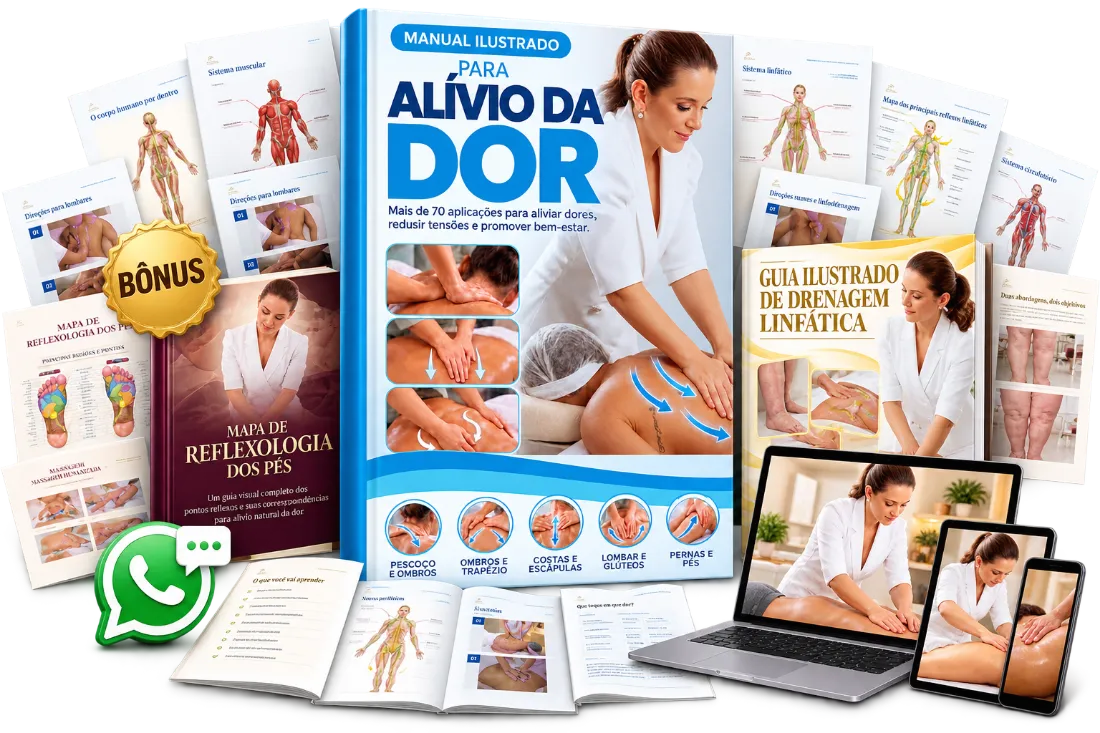
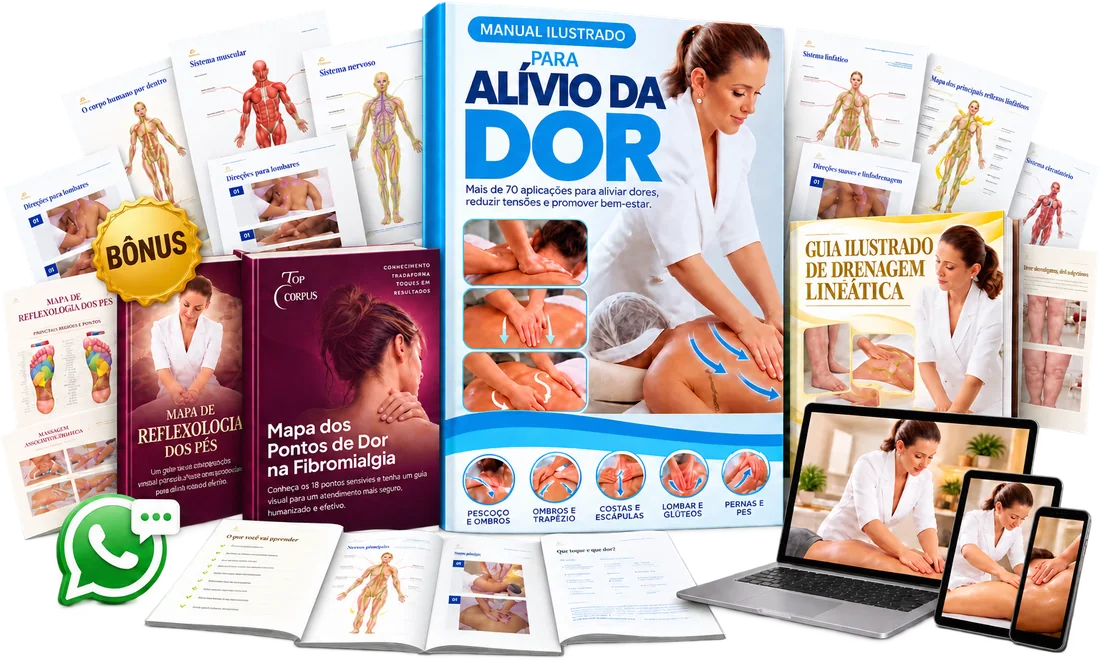
Troca o mockup da oferta pela colagem com os cinco bônus
A arte nova fecha o par com o hero: traz o Mapa dos Pontos de Dor na
Fibromialgia junto das outras capas e mostra os cinco bônus de uma vez —
os três livros, as videoaulas no notebook/tablet/celular e o WhatsApp.

Cortei as faixas transparentes de cima e de baixo do arquivo entregue
(1536x1024, com 52px mortos no topo e 53 embaixo). Sem isso a colagem
renderizaria menor dentro do cartão por causa de espaço vazio, e o
respiro já vem do padding do .mn-offer__media.

Reduzi para 1100px de largura: a caixa da oferta tem max-width 620px e
2,25rem de padding de cada lado, então a imagem nunca passa de 548px na
tela — 1100 é exatamente o dobro, o que basta para retina. Em q84 dá
177 KB, menos que os 193 KB do arquivo anterior. Comparei de q76 a q92 no
tamanho real de exibição e a diferença some antes do q80.

Os atributos width/height acompanham a proporção nova (1100x661), senão a
dobra pula no carregamento. O alt passa a citar os cinco bônus.

diff --git a/lt-v1-27/index.html b/lt-v1-27/index.html
@@ -337,8 +337,8 @@
 
           <div class="mn-offer__media">
             <img src="assets/img/mockup-oferta.webp"
-                 alt="O Manual Ilustrado para Alívio da Dor ao centro, cercado pelos bônus: o Mapa de Reflexologia dos Pés, o Guia Ilustrado de Drenagem Linfática, as videoaulas no notebook, no tablet e no celular, e o ícone do WhatsApp — com as páginas internas de anatomia abertas ao redor."
-                 width="1100" height="733" loading="lazy" decoding="async" />
+                 alt="O Manual Ilustrado para Alívio da Dor ao centro, cercado pelos cinco bônus: o Mapa de Reflexologia dos Pés, o Mapa dos Pontos de Dor na Fibromialgia, o Guia Ilustrado de Drenagem Linfática, as videoaulas no notebook, no tablet e no celular, e o ícone do WhatsApp — com as páginas internas de anatomia abertas ao redor."
+                 width="1100" height="661" loading="lazy" decoding="async" />
           </div>
 
           <div class="tp-offer__list">

diff --git a/lt-v1-67/index.html b/lt-v1-67/index.html
@@ -337,8 +337,8 @@
 
           <div class="mn-offer__media">
             <img src="assets/img/mockup-oferta.webp"
-                 alt="O Manual Ilustrado para Alívio da Dor ao centro, cercado pelos bônus: o Mapa de Reflexologia dos Pés, o Guia Ilustrado de Drenagem Linfática, as videoaulas no notebook, no tablet e no celular, e o ícone do WhatsApp — com as páginas internas de anatomia abertas ao redor."
-                 width="1100" height="733" loading="lazy" decoding="async" />
+                 alt="O Manual Ilustrado para Alívio da Dor ao centro, cercado pelos cinco bônus: o Mapa de Reflexologia dos Pés, o Mapa dos Pontos de Dor na Fibromialgia, o Guia Ilustrado de Drenagem Linfática, as videoaulas no notebook, no tablet e no celular, e o ícone do WhatsApp — com as páginas internas de anatomia abertas ao redor."
+                 width="1100" height="661" loading="lazy" decoding="async" />
           </div>
 
           <div class="tp-offer__list">

diff --git a/lt-v1-97/index.html b/lt-v1-97/index.html
@@ -337,8 +337,8 @@
 
           <div class="mn-offer__media">
             <img src="assets/img/mockup-oferta.webp"
-                 alt="O Manual Ilustrado para Alívio da Dor ao centro, cercado pelos bônus: o Mapa de Reflexologia dos Pés, o Guia Ilustrado de Drenagem Linfática, as videoaulas no notebook, no tablet e no celular, e o ícone do WhatsApp — com as páginas internas de anatomia abertas ao redor."
-                 width="1100" height="733" loading="lazy" decoding="async" />
+                 alt="O Manual Ilustrado para Alívio da Dor ao centro, cercado pelos cinco bônus: o Mapa de Reflexologia dos Pés, o Mapa dos Pontos de Dor na Fibromialgia, o Guia Ilustrado de Drenagem Linfática, as videoaulas no notebook, no tablet e no celular, e o ícone do WhatsApp — com as páginas internas de anatomia abertas ao redor."
+                 width="1100" height="661" loading="lazy" decoding="async" />
           </div>
 
           <div class="tp-offer__list">
